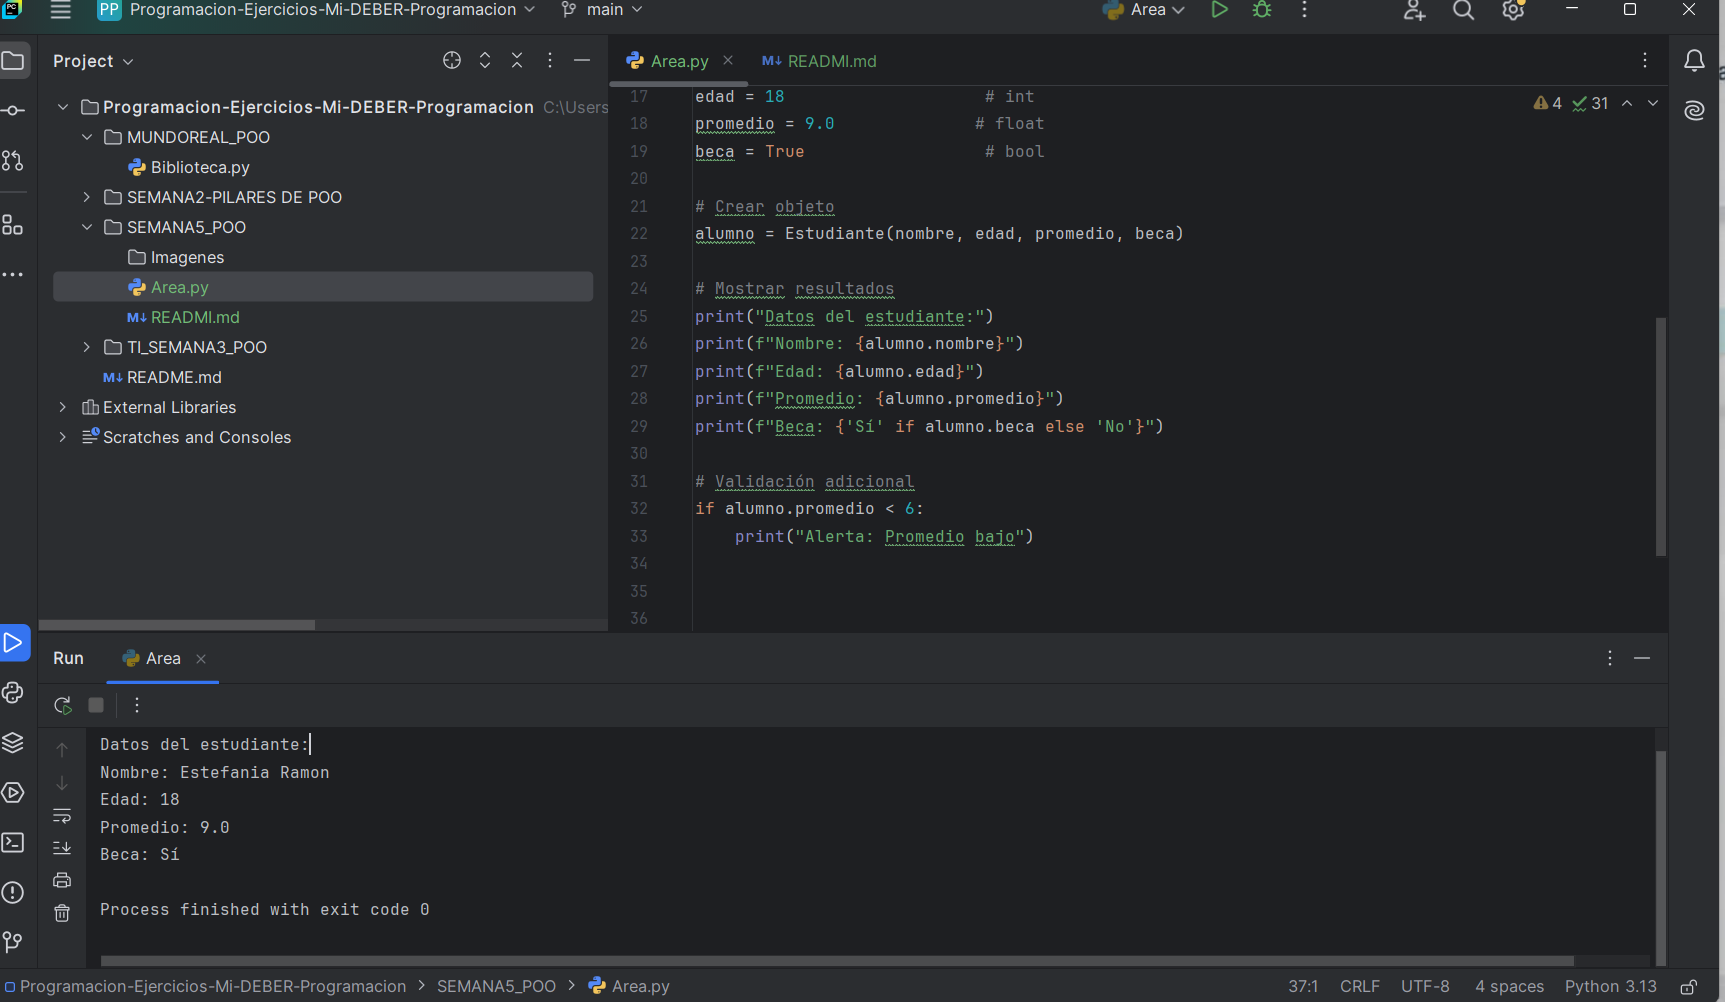
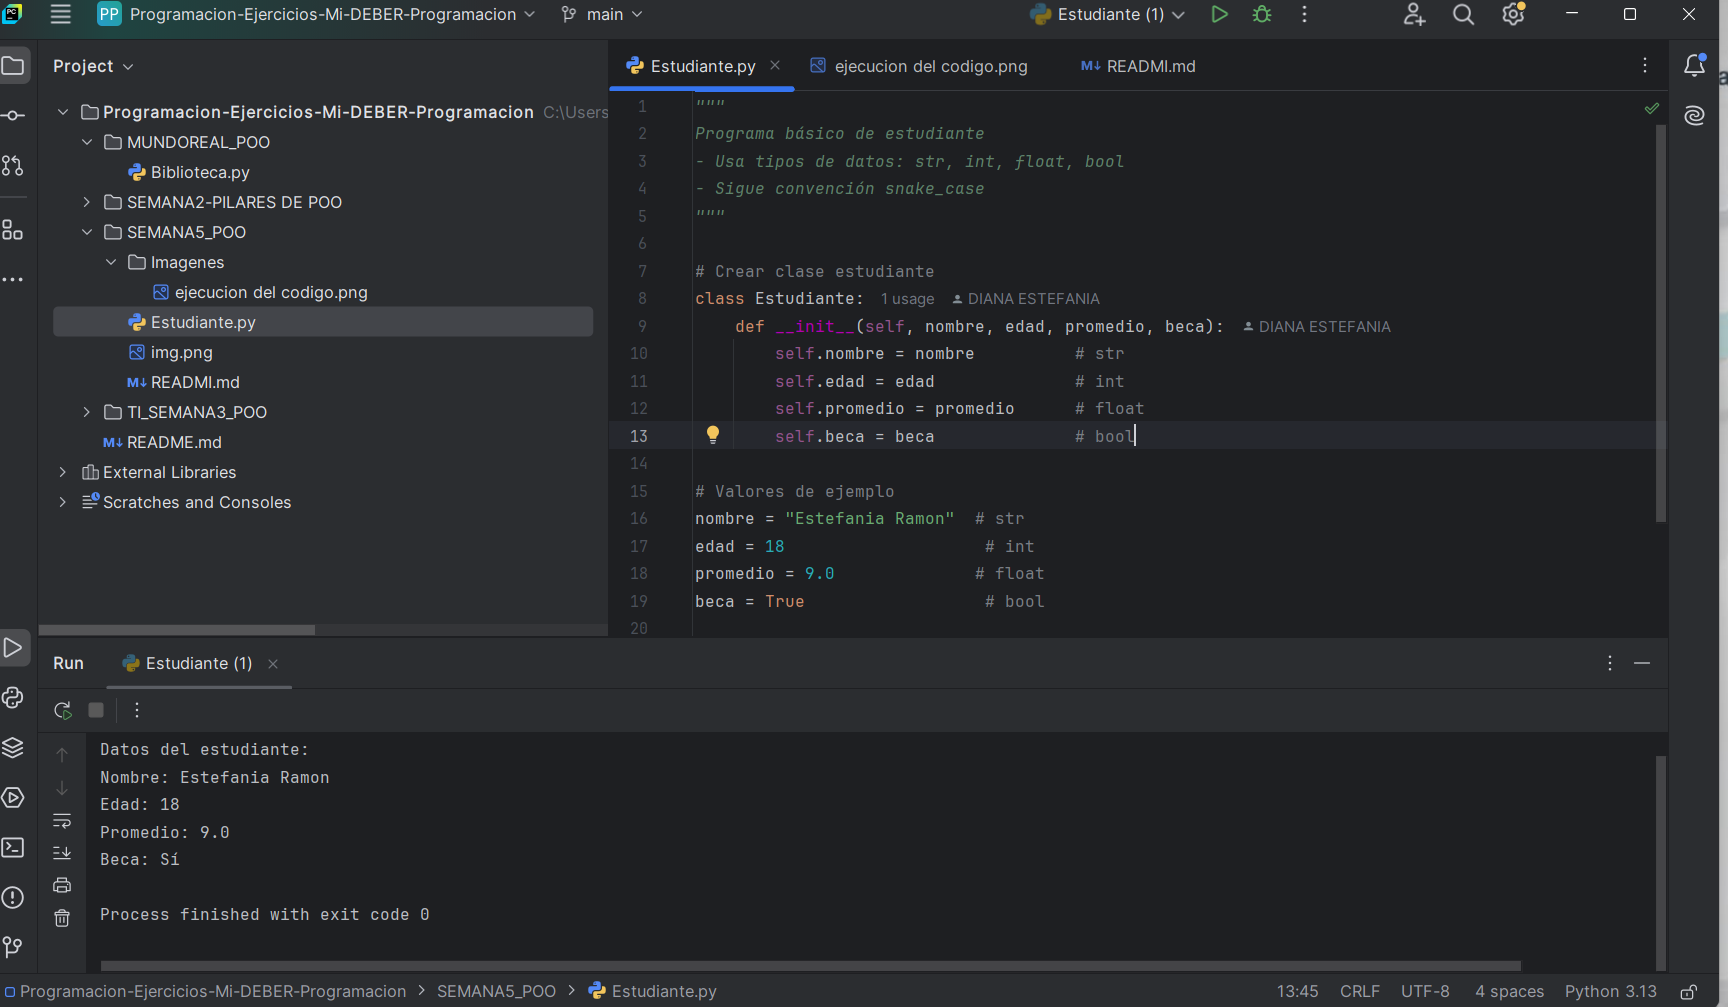
Se elimino una imagen jpg que se encontraba de forma adicional para el codigo. Se edito la imagen de READMI por otra con mejor resolución

diff --git a/SEMANA5_POO/READMI.md b/SEMANA5_POO/READMI.md
@@ -36,4 +36,4 @@ Diana Estefania Ramón
 
 ## Captura de pantalla del código
 
-![img.png](img.png)
+![ejecucion del codigo.png](Imagenes/ejecucion%20del%20codigo.png)
